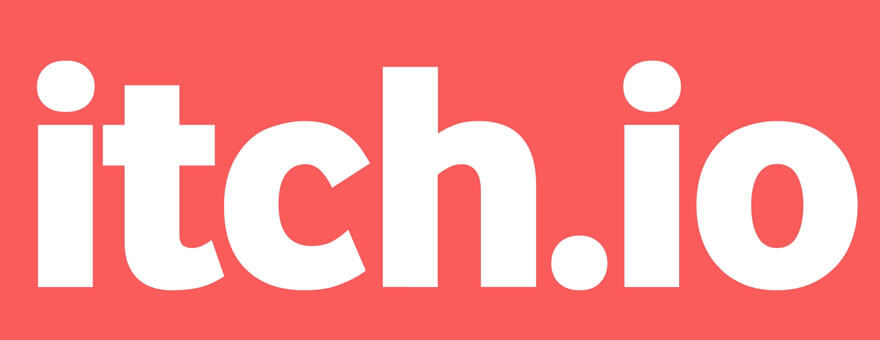
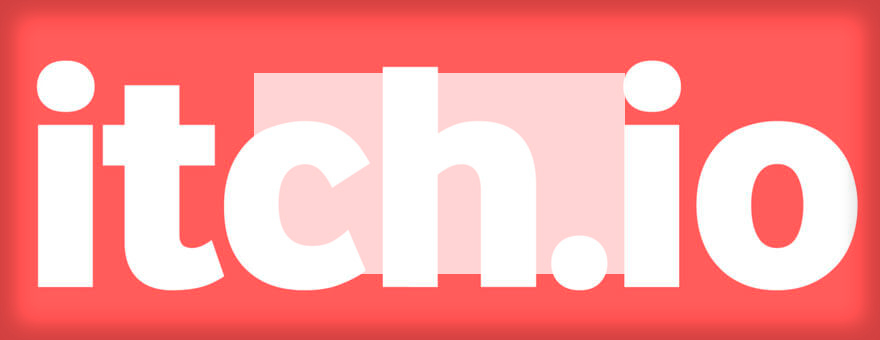
Portfolio actualizado

diff --git a/index.html b/index.html
@@ -96,6 +96,16 @@
                 <a class="btn btn-primary btn-xl" href="https://gliwisestudio.itch.io/the-wise-defense">Play Now!</a>
             </div>
         </section>
+        <section class="team">
+            <div class="container px-4 px-lg-5 text-center">
+
+                <h1 style="padding-top: 100px" class="mx-auto mb-5">
+                   Members of the team
+                </h1>
+                <img class="img-fluid" src="assets/img/equipo.png" alt="..." />
+                
+            </div>
+        </section>
         <!-- Portfolio-->
         <section class="content-section" id="portfolio">
             <div class="container px-4 px-lg-5">
@@ -119,11 +129,11 @@
                         <a class="portfolio-item" href="#!">
                             <div class="caption">
                                 <div class="caption-content">
-                                    <!--<div class="h2">Ice Cream</div>
-                                    <p class="mb-0">A dark blue background with a colored pencil, a clip, and a tiny ice cream cone!</p>-->
+                                    <div class="h2">Clash of Splats</div>
+                                    <p class="mb-0">Clash of Splats is a first person shooter, defense-like wave game with a funny alien story behind. You want to know more? Well, here we go!</p>
                                 </div>
                             </div>
-                            <img class="img-fluid" src="assets/img/comingSoon.jpg" alt="..." />
+                            <img class="img-fluid" src="assets/img/clashOfSplats.png" alt="..." />
                         </a>
                     </div>
                     <div class="col-lg-6">

diff --git a/css/styles.css b/css/styles.css
@@ -11421,7 +11421,7 @@ html {
 
 .callout {
   padding: 15rem 0;
-  background: linear-gradient(90deg, rgba(255, 255, 255, 0.1) 0%, rgba(255, 255, 255, 0.1) 100%), url("../assets/img/bg-callout.jpg");
+  background: linear-gradient(90deg, rgba(255, 255, 255, 0.1) 0%, rgba(255, 255, 255, 0.1) 100%), url("../assets/img/itchio.jpg");
   background-position: center center;
   background-repeat: no-repeat;
   background-size: cover;
